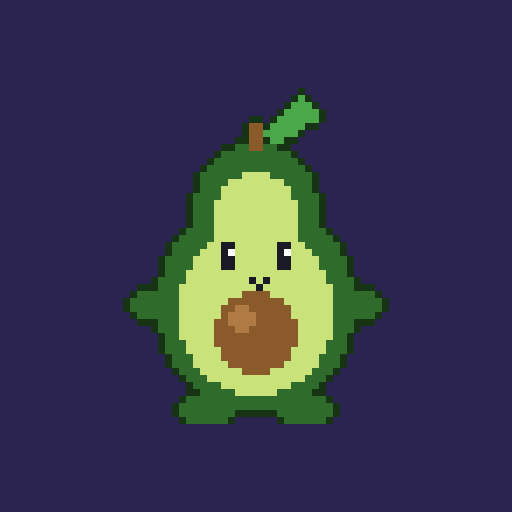
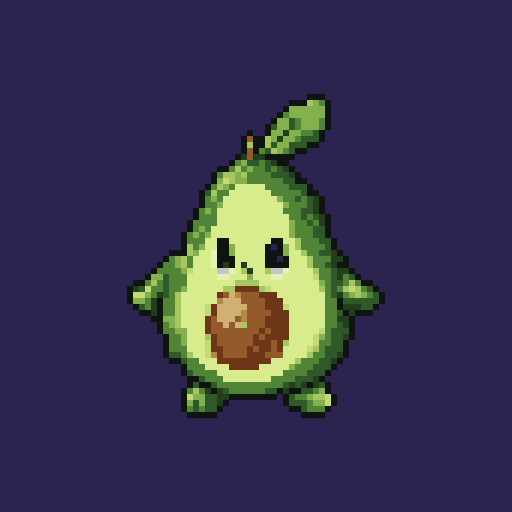
Aguacatito: new pixel art (front and back), 56px battle slots
- Aguacatito's sprites come from the user's improved design (art-src/aguacatito.png),
  turned back into real pixels, cleaned and re-outlined, stored as text rows with a
  palette in style/palabritas.ts. Palabritas without hand-made art keep their shape drawings
- Battles use Gen 2's 56x56 slots; sprites of any size stand bottom-centered
- Menus and the title screen keep sprite proportions
- App icons regenerated from the new Aguacatito

Changed region(s): [[0.2188, 0.1562, 0.7812, 0.8438]]

diff --git a/src/style/palabritas.ts b/src/style/palabritas.ts
@@ -1,0 +1,132 @@
+/*
+  Hand-made pixel art for Palabritas (battle sprites), as rows of characters: each character
+  is a color from the sprite's palette, '.' is transparent. Front = how the opponent looks,
+  back = your own Palabrita, seen from behind. Canvas up to 56x56 (Gen 2's size), content up to
+  54 px tall so it clears the health boxes.
+  Palabritas not listed here are drawn from shapes in art/creatures.ts.
+
+  Aguacatito: from art-src/aguacatito.png (made with ChatGPT), turned back into real pixels.
+*/
+export interface SpriteArt {
+  pal: Record<string, string>;
+  front: string[];
+  back: string[];
+}
+
+export const PALABRITA_ART: Record<string, SpriteArt> = {
+  aguacatito: {
+    pal: {'a': '#101410', 'b': '#2f5928', 'c': '#d9ec8d', 'd': '#223e1c', 'e': '#518436', 'f': '#84b14e', 'g': '#945a2c', 'h': '#6c3717', 'i': '#c4db75', 'j': '#a6c661', 'k': '#d1b173', 'l': '#e5f2b4', 'm': '#c6c7c5', 'n': '#b28748'},
+    front: [
+      '..............................aaa..........',
+      '...........................aaajfea.........',
+      '..........................affffffa.........',
+      '.........................aeffffffa.........',
+      '........................affbefffea.........',
+      '.......................abffbefffea.........',
+      '....................a..affdffeeba..........',
+      '...................agaajfdffebbba..........',
+      '...................ajaajbffbbbaa...........',
+      '...................agaebjfebaa.............',
+      '..................adgddaaaaa...............',
+      '.................aefbbebdaa................',
+      '...............aaejefeebebda...............',
+      '..............aejjfjeeeebbbda..............',
+      '..............afijffeeeeeebbaa.............',
+      '.............aejfeccccceeeebbba............',
+      '............abjeeccccccceeeeebaa...........',
+      '............aefecccccccccfeebebda..........',
+      '............aeefccccccccccfeeebda..........',
+      '...........aefeccccccccccceeebbda..........',
+      '...........aeeecccccccccccceebebda.........',
+      '..........aeeeeccccccccccccfeebeda.........',
+      '..........aefecccccccccccccfeeebba.........',
+      '.........aefefcccccccccccccfeeebba.........',
+      '.........aeeeccaacccccccaaccjeeebba........',
+      '.........ajefccaafccccca.afcjeeeeba........',
+      '.......aaajfcclaafcccccaaafccjeebbda.......',
+      '......aefjeccclaaacccccaa.acccjeeedda......',
+      '.....aeefjecccladacdcccaaaacccjeebdaa......',
+      '....aeeeeficcccmmlcjdccjmmlccccjeebdda.....',
+      '...affbeeecccccllcccfcccllcccccieebdeba....',
+      '.aaejebeeeccccccccjjjjccccccccccfebbejeaa..',
+      'adbieebeefccccccjjhhhhjiccccccccjebejijeba.',
+      'aiifedbejcccccchgknggghhhccccccccebdefjfeba',
+      'affedaeejccccccnkkkgggghhhccccccceeabbbbbba',
+      '.abedaeejccccihkkkkkggghhhicccccceeadddbba.',
+      '..aadaeejccccihkkkkngggghhhcccccceebadaaa..',
+      '....aaffjcccchgkkkgnggghhhhcccccceedda.....',
+      '.....aefjcccchggkgkjggghhhhcccccceebda.....',
+      '.....aeeffccchgggggggghghhhccccciebbba.....',
+      '......aeefcccjhgggggghghhhhccccifebbda.....',
+      '......aeefcccihgggggghhhghjccccieebba......',
+      '......aeeecccihhgggghghhghccccijebbba......',
+      '......abbejccinhgggghhhgggccccjeebbda......',
+      '.......aabeeccchhhhhhhhhccccjeeebbda.......',
+      '.........aeeecccchhhhhcccccfeeebbba........',
+      '.........abeeeeccccccccccceeeebbba.........',
+      '..........aabeeecccccccceeeebbbda..........',
+      '..........abaabeeeeeeeeeeebdbdadba.........',
+      '.........aejedadbeeeeeebbadaabbefa.........',
+      '.........aiffbbddaaaaaaaa.abeefjjia........',
+      '.........afbfbbda.........abbbeffia........',
+      '.........aebebba...........aabeeea.........',
+      '..........aaaaa..............aaaa..........',
+    ],
+    back: [
+      '..............................aa............',
+      '............................aaffaa..........',
+      '..........................aaffffffa.........',
+      '........................aaefffffffa.........',
+      '.......................aeffebeffea..........',
+      '.......................afebbffeba...........',
+      '...................aa..aebbeffbda...........',
+      '..................aggaaebeefebaa............',
+      '..................angaafeffebda.............',
+      '..................aggadeeeedda..............',
+      '.................aaggaddaaaaa...............',
+      '................aefbdbbba...................',
+      '...............aafeebbbbdaa.................',
+      '..............abejfeebebbddaa...............',
+      '.............adejjefeebbbbbdda..............',
+      '.............aejjjfeeeebbbbbda..............',
+      '............aefjjfjeeebbbbbbbda.............',
+      '...........aefjjffeeebebbbbbbbda............',
+      '...........aejjfjfeeebebbbbbbbda............',
+      '..........abejfjfeeebebbbbbbbbda............',
+      '..........aeefefeeeeeebbbbbbbbda............',
+      '..........aefefefeebebbbbbbbbbbda...........',
+      '..........aeefeefeeebbbbbbbbbbbda...........',
+      '..........aefefeeeeebebbbbbbdbbda...........',
+      '.........aeeefefeebeebbbbbbbbbbbda..........',
+      '.........aeefefeeeeebebbbbbbbbbbdda.........',
+      '........abeeeeeeeeeebbbbbbbbbbbbbda.........',
+      '........aeeeeeeeeeebebbbbbbbbbbbddda........',
+      '.......aeeeefeeeeeebebbbbbbbbbbbbdda........',
+      '....aaaeebeeeeeeeebebbbbbbbbbbbbdbddaaa.....',
+      '...aeebdbebeeeeeebebebbbbbbbbbbbdbdddeba....',
+      '..aefbbbbeeebeeeeebebbbbbbbbbbbbbdbddejjaa..',
+      '.aijebdbebbeeebebbebbbbbbbbbbbbbbddddbfjija.',
+      'aijfbddbbbeeeeeebbbbbbbbbbbbbbbbdbddabefjjja',
+      'ajfedadbbebbebebeebbbbbbbbbebbbbddbdadbeeffa',
+      'aeebdddbbbbbbebebbbbbbbbbbbbbbbbbddddddbbeea',
+      '.adaaadbbbeebbebbbbbbbbbbbbbbbbbdbdddaddada.',
+      '..a..abbbbbbbbbbbbbbbbbbbbbbbbdbbddddaaa.a..',
+      '.....abbbbbbbbbbbbbbbbbbbbbbbbdbddddda......',
+      '.....adbbbbbbbbbbbbbbbbbbbbbbbbbddddda......',
+      '......abbbbbbbbbbbbbbbbbbbbbbbbdbdddda......',
+      '......adbdbdbbbbbbbbbbbbbbbbdbdbddddda......',
+      '.......adbdbbdbbdbbbbbbbbbbdbbbdddddda......',
+      '........adbdbbddbdbdbbbbbddbdbdddddaa.......',
+      '.........adbddbbdbdbdbddddbdbdddddda........',
+      '..........addbdbbdbdbddbbddbdddddaa.........',
+      '..........addddddddbdbddddddddddda..........',
+      '..........addddddddddddddddddddaa...........',
+      '..........abdaddddddddddddddddaba...........',
+      '.........aaebdaadaddddddddddaabefa..........',
+      '........aeijebdddaaaaaaaaaaadbejiia.........',
+      '........aeieebdda..........adbeeiia.........',
+      '.........aabedda............adebea..........',
+      '...........aaaa..............aaaa...........',
+    ],
+  },
+};

diff --git a/src/art/creatures.ts b/src/art/creatures.ts
@@ -1,6 +1,8 @@
-import { Pix, mirror, type Img } from './pixel';
+import { Pix, mirror, fromRows, type Img } from './pixel';
+import { PALABRITA_ART } from '../style/palabritas';
 
-// Creature portraits (48x48), drawn from simple shapes with a hard pixel outline.
+// Palabrita sprites: hand-made pixel art (style/palabritas.ts), or for the ones that don't have
+// it yet, 48x48 drawings from simple shapes with a hard pixel outline (below).
 const K = '#1a1a26';
 const W = '#ffffff';
 
@@ -56,23 +58,6 @@ const DRAW: Record<string, Draw> = {
     p.set(7, 16, W);
     p.rect(5, 25, 2, 2, '#ff8aa0');
     p.outline('#3a1a08');
-  },
-  aguacatito(p) {
-    const sk = '#2f6b2a', fl = '#c9e27a', pit = '#8b5a2b';
-    p.ellipse(17, 46, 4, 2, sk).ellipse(31, 46, 4, 2, sk);
-    p.ellipse(9, 31, 3, 2, sk).ellipse(39, 31, 3, 2, sk);
-    p.ellipse(24, 18, 9, 10, sk);
-    p.ellipse(24, 31, 14, 15, sk);
-    p.ellipse(24, 19, 6, 7, fl);
-    p.ellipse(24, 32, 11, 12, fl);
-    p.ellipse(24, 35, 6, 6, pit);
-    p.ellipse(22, 33, 2, 2, '#b07a45');
-    p.ellipse(20, 24, 1.5, 2, K).ellipse(28, 24, 1.5, 2, K);
-    p.set(20, 23, W).set(28, 23, W);
-    p.set(23, 27, K).set(24, 28, K).set(25, 27, K);
-    p.rect(23, 5, 2, 4, pit);
-    p.poly([[25, 7], [31, 1], [34, 4], [27, 8]], '#4aa84a');
-    p.outline('#163314');
   },
   pajarito(p) {
     const br = '#9a6a42', dk = '#6b4426', or = '#f39a2b';
@@ -152,37 +137,20 @@ const DRAW: Record<string, Draw> = {
   },
 };
 
-/**
- * Back views (your Palabrita in battle), seen from behind and looking up-right at the opponent.
- * A Palabrita without one uses its mirrored front view for now.
- */
-const BACK: Record<string, Draw> = {
-  aguacatito(p) {
-    const sk = '#2f6b2a', hi = '#438a3b', bump = '#3d7d35', fl = '#c9e27a', pit = '#8b5a2b';
-    p.ellipse(15, 46, 4, 2, sk).ellipse(31, 46, 4, 2, sk);
-    p.ellipse(8, 30, 3, 2, sk).ellipse(41, 28, 3, 2.5, sk); // the right arm a bit raised
-    // A sliver of the green flesh on the right: it's turned toward the opponent.
-    p.ellipse(27, 19, 8, 9.5, fl).ellipse(27, 31, 13, 14, fl);
-    p.ellipse(22, 18, 9, 10, sk);
-    p.ellipse(22, 31, 14, 15, sk);
-    p.ellipse(17, 24, 4, 8, hi).ellipse(19, 14, 3, 4, hi);
-    for (const [x, y] of [[25, 22], [29, 30], [20, 36], [26, 40], [15, 33], [23, 28], [30, 37], [24, 13]]) p.set(x, y, bump);
-    p.rect(21, 5, 2, 4, pit);
-    p.poly([[23, 7], [30, 2], [33, 5], [25, 8]], '#4aa84a');
-    p.outline('#163314');
-  },
-};
-
 export const CREATURE_ART: Record<string, { front: Img; back: Img }> = {};
 
+/**
+ * Hand-made pixel art (style/palabritas.ts) when a Palabrita has it; otherwise its shape
+ * drawing, with the mirrored front as the back view.
+ */
 export function buildCreatureArt() {
-  const draw = (fn: Draw) => {
+  for (const [id, fn] of Object.entries(DRAW)) {
     const p = new Pix(48, 48);
     fn(p);
-    return p.toCanvas();
-  };
-  for (const [id, fn] of Object.entries(DRAW)) {
-    const front = draw(fn);
-    CREATURE_ART[id] = { front, back: BACK[id] ? draw(BACK[id]) : mirror(front) };
+    const front = p.toCanvas();
+    CREATURE_ART[id] = { front, back: mirror(front) };
+  }
+  for (const [id, art] of Object.entries(PALABRITA_ART)) {
+    CREATURE_ART[id] = { front: fromRows(art.front, art.pal, `${id} front`), back: fromRows(art.back, art.pal, `${id} back`) };
   }
 }

diff --git a/src/battle/battle.ts b/src/battle/battle.ts
@@ -38,8 +38,13 @@ interface Ball {
   shake: number;
 }
 
-const ENEMY_POS = { x: 104, y: 4 };
-const ME_POS = { x: 8, y: 46 };
+/**
+ * Each side has a 56x56 slot (Gen 2's sprite size); sprites stand on its bottom, centered.
+ * The opponent's slot ends at y=54, just above your health box.
+ */
+const SLOT = 56;
+const ENEMY_POS = { x: 100, y: -2 };
+const ME_POS = { x: 4, y: 38 };
 
 let enemyF: Fighter | null = null;
 let meF: Fighter | null = null;
@@ -58,7 +63,7 @@ const battleScene = {
     if (flashOn) return;
     g.fillStyle = '#d8d8c4';
     g.beginPath();
-    g.ellipse(128, 50, 24, 5, 0, 0, Math.PI * 2);
+    g.ellipse(128, 52, 24, 5, 0, 0, Math.PI * 2);
     g.fill();
     g.beginPath();
     g.ellipse(32, 92, 24, 5, 0, 0, Math.PI * 2);
@@ -72,10 +77,13 @@ const battleScene = {
 };
 
 function drawFighter(g: CanvasRenderingContext2D, f: Fighter | null) {
-  if (!f || f.hidden || f.sink >= 48) return;
+  if (!f || f.hidden || f.sink >= f.img.height) return;
   if (f.blink > 0 && Math.floor(f.blink / 4) % 2 === 0) return;
-  const h = 48 - f.sink;
-  g.drawImage(f.img, 0, 0, 48, h, Math.round(f.x + f.lunge), Math.round(f.y + f.sink), 48, h);
+  const { width: w, height: fullH } = f.img;
+  const h = fullH - f.sink; // fainting: it sinks into the ground
+  const x = f.x + Math.floor((SLOT - w) / 2) + f.lunge;
+  const y = f.y + SLOT - fullH + f.sink;
+  g.drawImage(f.img, 0, 0, w, h, Math.round(x), Math.round(y), w, h);
 }
 
 /** 6 slots: a ball per Palabrita (gray when fainted), empty outlines for the rest, on a bracket line. */
@@ -91,7 +99,7 @@ function drawLineup(g: CanvasRenderingContext2D, team: Mon[], x: number, y: numb
 
 const fighter = (img: Img, x: number, y: number): Fighter => ({ img, x, y, blink: 0, sink: 0, hidden: false, lunge: 0 });
 /** The opponent's side shows Palabritas from the front, yours from the back. Both start off-screen. */
-const enemyFighter = (mon: Mon) => fighter(CREATURE_ART[mon.sp].front, -48, ENEMY_POS.y);
+const enemyFighter = (mon: Mon) => fighter(CREATURE_ART[mon.sp].front, -SLOT, ENEMY_POS.y);
 const myFighter = (mon: Mon) => fighter(CREATURE_ART[mon.sp].back, W, ME_POS.y);
 
 async function lunge(f: Fighter, dir: number) {
@@ -109,7 +117,7 @@ async function hitAnim(f: Fighter) {
 
 async function sinkAnim(f: Fighter) {
   for (let i = 0; i <= 24; i++) {
-    f.sink = i * 2;
+    f.sink = Math.round((f.img.height * i) / 24);
     await nextFrame();
   }
   f.hidden = true;
@@ -252,7 +260,7 @@ async function runBattle(cfg: Config): Promise<BattleResult> {
   };
   const tally = { asked: 0, learned: 0 };
 
-  const trainerFighter = () => fighter(portrait(cfg.look ?? 'man'), -48, ENEMY_POS.y);
+  const trainerFighter = () => fighter(portrait(cfg.look ?? 'man'), -SLOT, ENEMY_POS.y);
   enemyF = trainer ? trainerFighter() : enemyFighter(enemy);
   meF = fighter(portrait('player', 'back'), W, ME_POS.y);
   ball = null;
@@ -567,7 +575,7 @@ async function runBattle(cfg: Config): Promise<BattleResult> {
     hud = buildHud(() => enemy, () => me);
     hud.update();
     hud.show('player', false);
-    await slide(meF, -48);
+    await slide(meF, -SLOT);
     await sendOut(me);
     hud.show('player', true);
 

diff --git a/src/title.ts b/src/title.ts
@@ -25,9 +25,14 @@ const titleScene = {
     g.fillStyle = '#5aa04a';
     g.fillRect(0, 98, W, 3);
     const bob = (i: number) => Math.round(Math.sin(t / 15 + i * 2) * 2);
-    g.drawImage(CREATURE_ART.salchichita.front, 8, 56 + bob(0));
-    g.drawImage(CREATURE_ART.gotita.front, 56, 50 + bob(1));
-    g.drawImage(CREATURE_ART.aguacatito.front, 104, 56 + bob(2));
+    // The three starters, standing on the grass (centered on x, feet at y).
+    const stand = (sp: string, x: number, y: number) => {
+      const img = CREATURE_ART[sp].front;
+      g.drawImage(img, Math.round(x - img.width / 2), y - img.height);
+    };
+    stand('salchichita', 32, 104 + bob(0));
+    stand('gotita', 80, 98 + bob(1));
+    stand('aguacatito', 128, 104 + bob(2));
   },
 };
 

diff --git a/src/ui/party.ts b/src/ui/party.ts
@@ -17,7 +17,10 @@ export function spriteCanvas(sp: string, size = 48) {
   c.height = size;
   const g = c.getContext('2d')!;
   g.imageSmoothingEnabled = false;
-  g.drawImage(CREATURE_ART[sp].front, 0, 0, size, size);
+  // Fit the sprite in the square without stretching it, standing on the bottom.
+  const img = CREATURE_ART[sp].front;
+  const k = size / Math.max(img.width, img.height);
+  g.drawImage(img, Math.round((size - img.width * k) / 2), Math.round(size - img.height * k), img.width * k, img.height * k);
   return c;
 }
 

diff --git a/src/dev/art.ts b/src/dev/art.ts
@@ -63,7 +63,7 @@ const BG = '#2b2350'; // same as theme_color in manifest.webmanifest
 /** Icon size → pixel scale of the 48x48 sprite. 512 is also the "maskable" icon, so it keeps a safe margin. */
 const ICON_SIZES: [number, number][] = [
   [192, 3],
-  [512, 7],
+  [512, 6],
 ];
 
 /** The sprite's non-transparent area, so it can be centered. */
